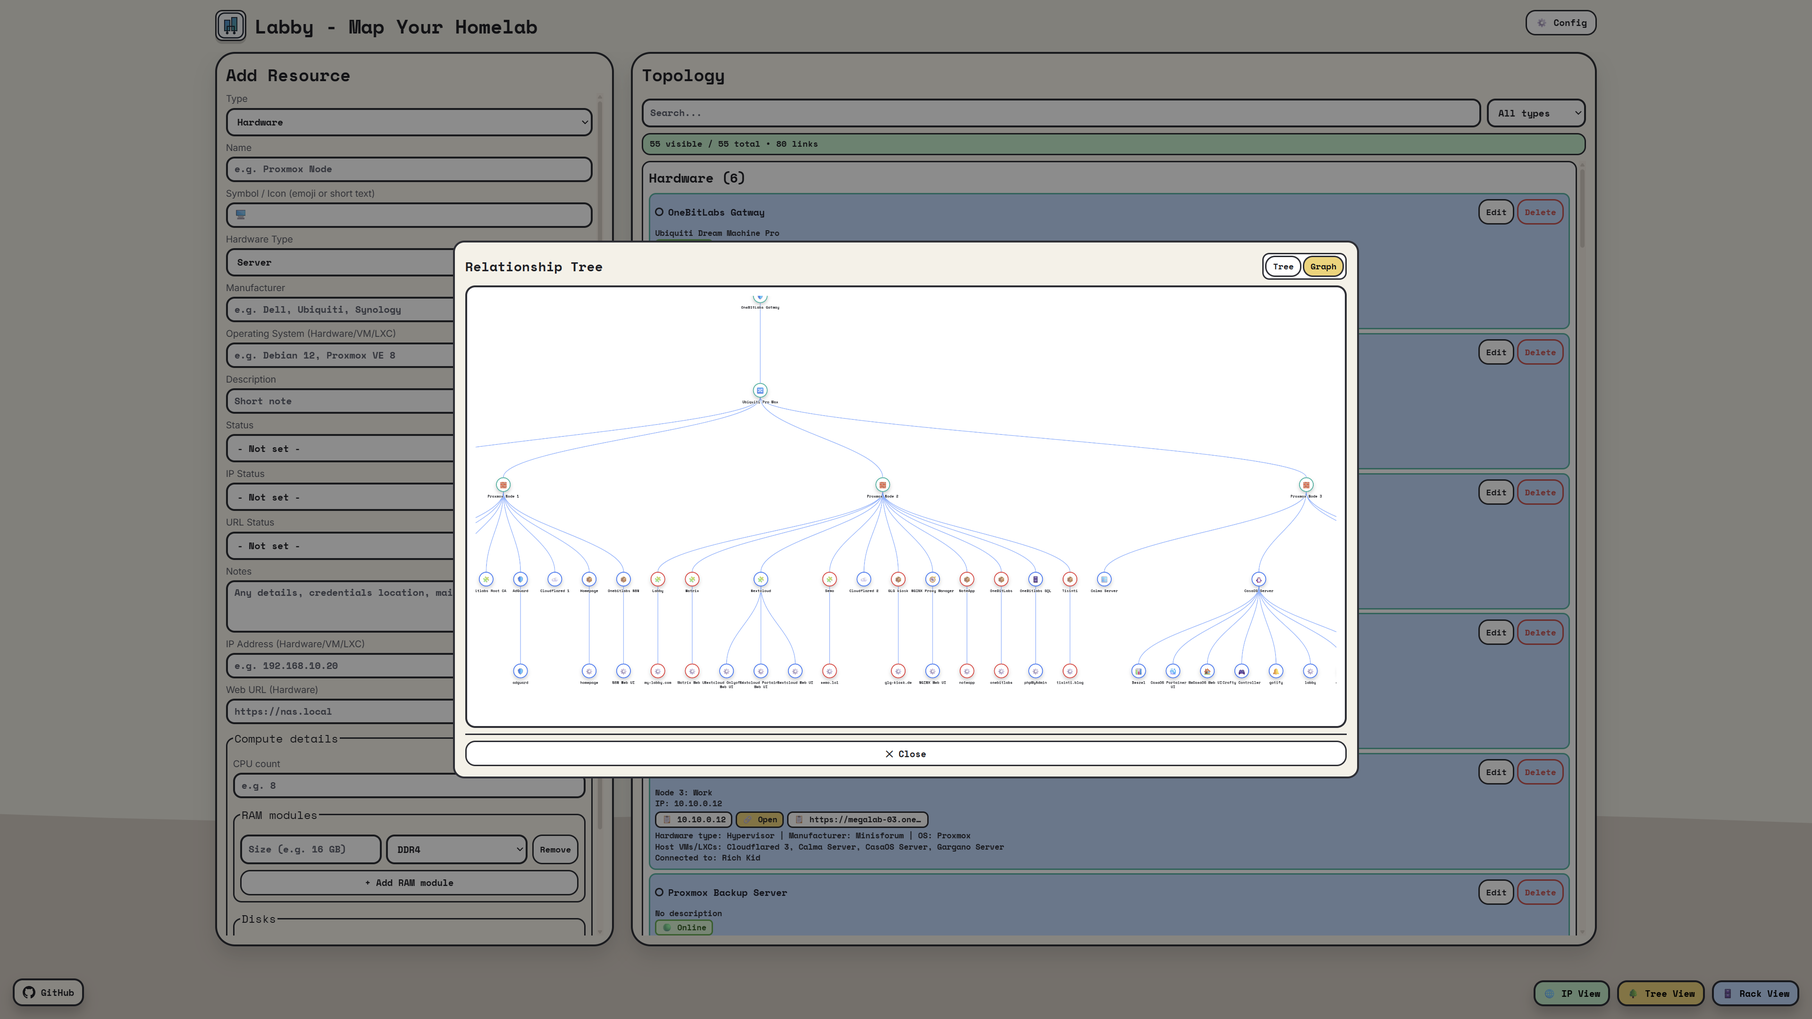
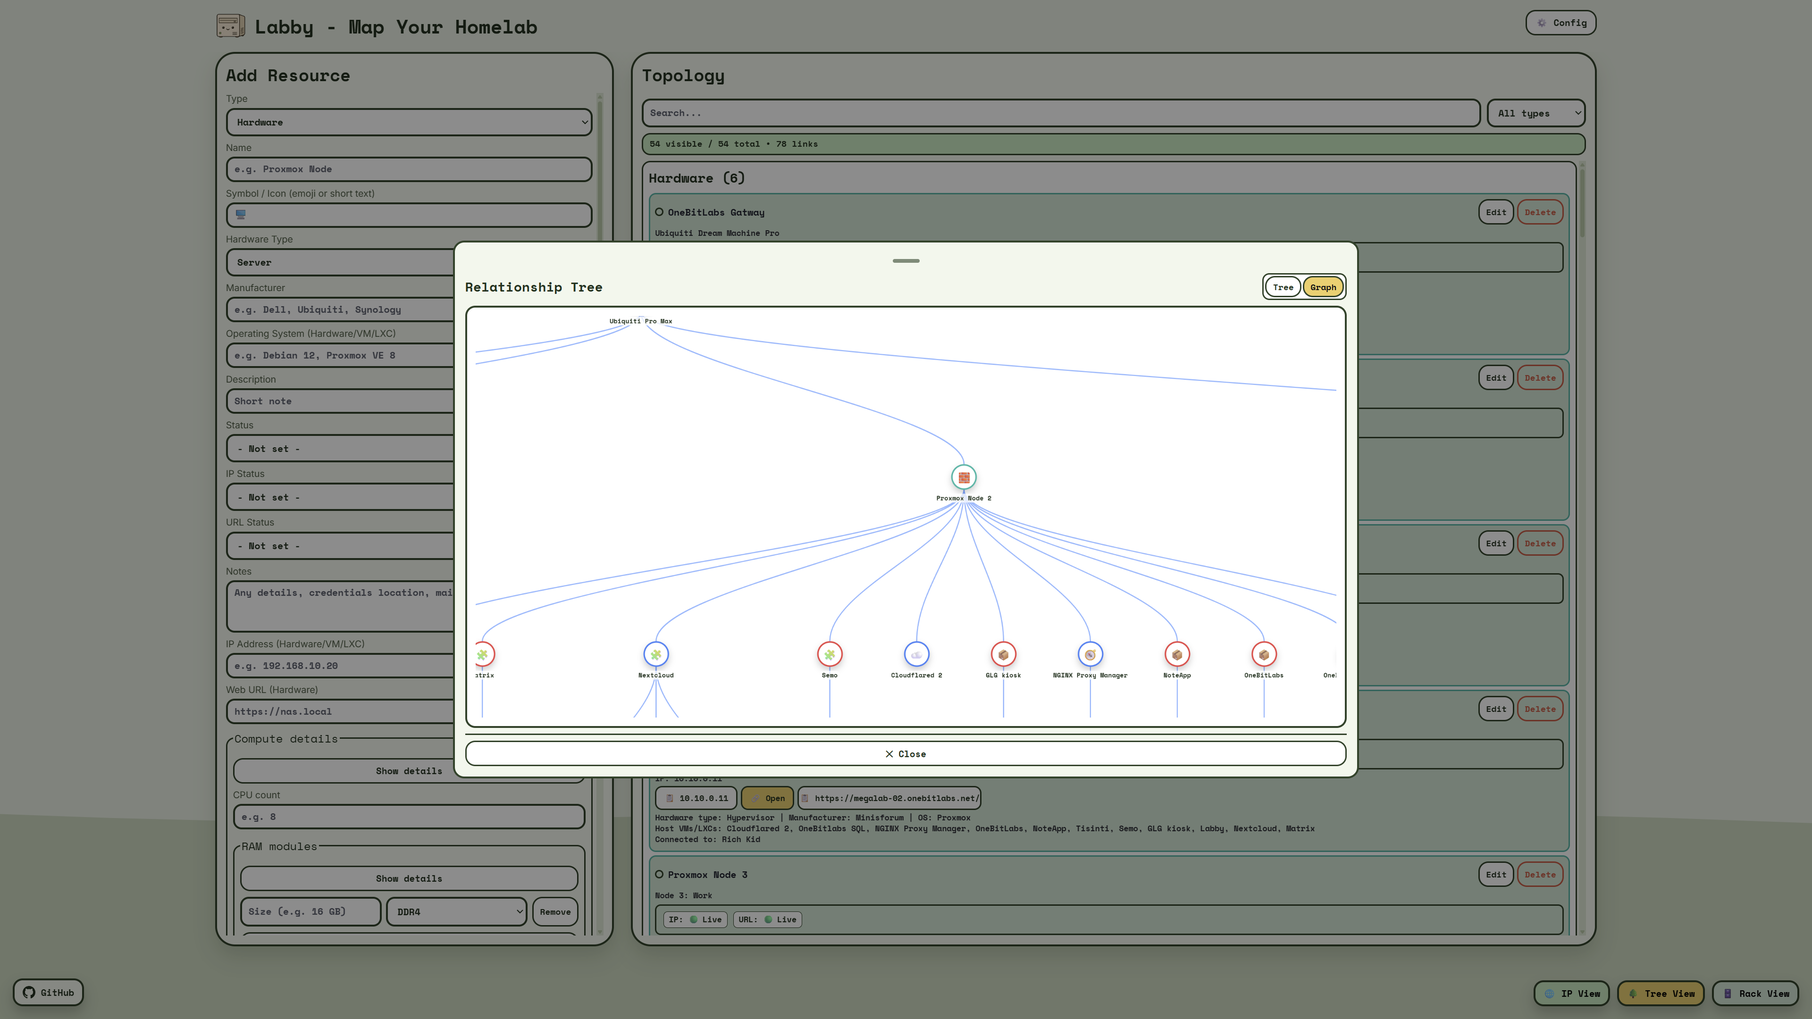
Replace website screenshots and link wiki entries

diff --git a/website/index.html b/website/index.html
@@ -309,8 +309,27 @@
     .gallery-caption {
       font: 700 .74rem/1 'Space Mono', monospace;
       color: var(--muted);
-      padding: .55rem .75rem;
+      padding: .55rem .75rem .3rem;
       border-top: 2px solid var(--line);
+    }
+    .gallery-open {
+      width: 100%;
+      display: block;
+      border: 0;
+      background: transparent;
+      color: inherit;
+      font: inherit;
+      text-align: left;
+      padding: 0;
+      cursor: pointer;
+    }
+    .gallery-wiki-link {
+      display: inline-flex;
+      margin: 0 .75rem .65rem;
+      color: var(--text);
+      font: 700 .68rem/1.2 'Space Mono', monospace;
+      text-decoration: underline;
+      text-underline-offset: 3px;
     }
     .gallery-hint {
       margin-top: .75rem;
@@ -720,7 +739,7 @@
   <!-- main screenshot -->
   <div class="screenshot-wrap">
     <div class="screenshot-card">
-      <img src="images/labby-main-view.png" alt="Labby dashboard" loading="eager" />
+      <img src="images/labby-topology.png" alt="Labby topology dashboard" loading="eager" />
     </div>
   </div>
 </div>
@@ -790,30 +809,104 @@
     <p class="gallery-hint">Click or tap a screenshot to open the viewer. Swipe or use the arrows to browse left and right.</p>
 
     <div class="gallery">
-      <button class="gallery-item" type="button" data-shot-src="images/labby-graph-view.png" data-shot-title="Graph View" aria-label="Open screenshot: Graph View">
-        <img src="images/labby-graph-view.png" alt="Graph View" loading="lazy" />
-        <p class="gallery-caption">🕸 Graph View</p>
-      </button>
-      <button class="gallery-item" type="button" data-shot-src="images/labby-rack-view.png" data-shot-title="IP View" aria-label="Open screenshot: IP View">
-        <img src="images/labby-rack-view.png" alt="IP View" loading="lazy" />
-        <p class="gallery-caption">🌐 IP View</p>
-      </button>
-      <button class="gallery-item" type="button" data-shot-src="images/labby-rack-editor.png" data-shot-title="Rack Editor" aria-label="Open screenshot: Rack Editor">
-        <img src="images/labby-rack-editor.png" alt="Rack Editor" loading="lazy" />
-        <p class="gallery-caption">🔧 Rack Editor</p>
-      </button>
-      <button class="gallery-item" type="button" data-shot-src="images/labby-theme-menu.png" data-shot-title="Theme Picker" aria-label="Open screenshot: Theme Picker">
-        <img src="images/labby-theme-menu.png" alt="Theme Picker" loading="lazy" />
-        <p class="gallery-caption">🎨 Theme Picker</p>
-      </button>
-      <button class="gallery-item" type="button" data-shot-src="images/labby-themes.png" data-shot-title="Custom Theme Editor" aria-label="Open screenshot: Custom Theme Editor">
-        <img src="images/labby-themes.png" alt="Custom Theme Editor" loading="lazy" />
-        <p class="gallery-caption">🎨 Custom Theme Editor</p>
-      </button>
-      <button class="gallery-item" type="button" data-shot-src="images/labby-config-menu.png" data-shot-title="Config Menu" aria-label="Open screenshot: Config Menu">
-        <img src="images/labby-config-menu.png" alt="Config Menu" loading="lazy" />
-        <p class="gallery-caption">⚙ Config &amp; Backup</p>
-      </button>
+      <article class="gallery-item" tabindex="0" data-shot-src="images/labby-topology.png" data-shot-title="Topology" data-wiki-href="wiki.html#topologycards" aria-label="Open screenshot: Topology">
+        <button class="gallery-open" type="button">
+          <img src="images/labby-topology.png" alt="Topology" loading="lazy" />
+          <p class="gallery-caption">🧩 Topology</p>
+        </button>
+        <a class="gallery-wiki-link" href="wiki.html#topologycards" aria-label="Open wiki entry for Topology">Read Topology Cards</a>
+      </article>
+      <article class="gallery-item" tabindex="0" data-shot-src="images/labby-mobile-startscreen.png" data-shot-title="Mobile Startscreen" data-wiki-href="wiki.html#mobileux" aria-label="Open screenshot: Mobile Startscreen">
+        <button class="gallery-open" type="button">
+          <img src="images/labby-mobile-startscreen.png" alt="Mobile Startscreen" loading="lazy" />
+          <p class="gallery-caption">📱 Mobile Startscreen</p>
+        </button>
+        <a class="gallery-wiki-link" href="wiki.html#mobileux" aria-label="Open wiki entry for Mobile Startscreen">Read Mobile UX</a>
+      </article>
+      <article class="gallery-item" tabindex="0" data-shot-src="images/labby-mobile-menu.png" data-shot-title="Mobile More Menu" data-wiki-href="wiki.html#mobileux" aria-label="Open screenshot: Mobile More Menu">
+        <button class="gallery-open" type="button">
+          <img src="images/labby-mobile-menu.png" alt="Mobile More Menu" loading="lazy" />
+          <p class="gallery-caption">📱 Mobile More Menu</p>
+        </button>
+        <a class="gallery-wiki-link" href="wiki.html#mobileux" aria-label="Open wiki entry for Mobile More Menu">Read Mobile UX</a>
+      </article>
+      <article class="gallery-item" tabindex="0" data-shot-src="images/labby-mobile-config.png" data-shot-title="Mobile Config" data-wiki-href="wiki.html#config" aria-label="Open screenshot: Mobile Config">
+        <button class="gallery-open" type="button">
+          <img src="images/labby-mobile-config.png" alt="Mobile Config" loading="lazy" />
+          <p class="gallery-caption">⚙ Mobile Config</p>
+        </button>
+        <a class="gallery-wiki-link" href="wiki.html#config" aria-label="Open wiki entry for Mobile Config">Read Config, Import & Export</a>
+      </article>
+      <article class="gallery-item" tabindex="0" data-shot-src="images/labby-rack-view.png" data-shot-title="Rack View" data-wiki-href="wiki.html#rackview" aria-label="Open screenshot: Rack View">
+        <button class="gallery-open" type="button">
+          <img src="images/labby-rack-view.png" alt="Rack View" loading="lazy" />
+          <p class="gallery-caption">🗄 Rack View</p>
+        </button>
+        <a class="gallery-wiki-link" href="wiki.html#rackview" aria-label="Open wiki entry for Rack View">Read Rack View</a>
+      </article>
+      <article class="gallery-item" tabindex="0" data-shot-src="images/labby-rack-editor.png" data-shot-title="Rack Editor" data-wiki-href="wiki.html#rackview" aria-label="Open screenshot: Rack Editor">
+        <button class="gallery-open" type="button">
+          <img src="images/labby-rack-editor.png" alt="Rack Editor" loading="lazy" />
+          <p class="gallery-caption">🔧 Rack Editor</p>
+        </button>
+        <a class="gallery-wiki-link" href="wiki.html#rackview" aria-label="Open wiki entry for Rack Editor">Read Rack View</a>
+      </article>
+      <article class="gallery-item" tabindex="0" data-shot-src="images/labby-mobile-rack-view.png" data-shot-title="Mobile Rack View" data-wiki-href="wiki.html#rackview" aria-label="Open screenshot: Mobile Rack View">
+        <button class="gallery-open" type="button">
+          <img src="images/labby-mobile-rack-view.png" alt="Mobile Rack View" loading="lazy" />
+          <p class="gallery-caption">📱 Mobile Rack View</p>
+        </button>
+        <a class="gallery-wiki-link" href="wiki.html#rackview" aria-label="Open wiki entry for Mobile Rack View">Read Rack View</a>
+      </article>
+      <article class="gallery-item" tabindex="0" data-shot-src="images/labby-ip-view.png" data-shot-title="IP View" data-wiki-href="wiki.html#ipview" aria-label="Open screenshot: IP View">
+        <button class="gallery-open" type="button">
+          <img src="images/labby-ip-view.png" alt="IP View" loading="lazy" />
+          <p class="gallery-caption">🌐 IP View</p>
+        </button>
+        <a class="gallery-wiki-link" href="wiki.html#ipview" aria-label="Open wiki entry for IP View">Read IP View</a>
+      </article>
+      <article class="gallery-item" tabindex="0" data-shot-src="images/labby-mobile-ip-view.png" data-shot-title="Mobile IP View" data-wiki-href="wiki.html#ipview" aria-label="Open screenshot: Mobile IP View">
+        <button class="gallery-open" type="button">
+          <img src="images/labby-mobile-ip-view.png" alt="Mobile IP View" loading="lazy" />
+          <p class="gallery-caption">🌐 Mobile IP View</p>
+        </button>
+        <a class="gallery-wiki-link" href="wiki.html#ipview" aria-label="Open wiki entry for Mobile IP View">Read IP View</a>
+      </article>
+      <article class="gallery-item" tabindex="0" data-shot-src="images/labby-graph-view.png" data-shot-title="Graph View" data-wiki-href="wiki.html#treegraph" aria-label="Open screenshot: Graph View">
+        <button class="gallery-open" type="button">
+          <img src="images/labby-graph-view.png" alt="Graph View" loading="lazy" />
+          <p class="gallery-caption">🕸 Graph View</p>
+        </button>
+        <a class="gallery-wiki-link" href="wiki.html#treegraph" aria-label="Open wiki entry for Graph View">Read Tree and Graph View</a>
+      </article>
+      <article class="gallery-item" tabindex="0" data-shot-src="images/labby-theme-selector.png" data-shot-title="Theme Selector" data-wiki-href="wiki.html#themes" aria-label="Open screenshot: Theme Selector">
+        <button class="gallery-open" type="button">
+          <img src="images/labby-theme-selector.png" alt="Theme Selector" loading="lazy" />
+          <p class="gallery-caption">🎨 Theme Selector</p>
+        </button>
+        <a class="gallery-wiki-link" href="wiki.html#themes" aria-label="Open wiki entry for Theme Selector">Read Themes</a>
+      </article>
+      <article class="gallery-item" tabindex="0" data-shot-src="images/labby-theme-customization.png" data-shot-title="Theme Customization" data-wiki-href="wiki.html#themes" aria-label="Open screenshot: Theme Customization">
+        <button class="gallery-open" type="button">
+          <img src="images/labby-theme-customization.png" alt="Theme Customization" loading="lazy" />
+          <p class="gallery-caption">🎨 Theme Customization</p>
+        </button>
+        <a class="gallery-wiki-link" href="wiki.html#themes" aria-label="Open wiki entry for Theme Customization">Read Themes</a>
+      </article>
+      <article class="gallery-item" tabindex="0" data-shot-src="images/labby-config.png" data-shot-title="Config Menu" data-wiki-href="wiki.html#config" aria-label="Open screenshot: Config Menu">
+        <button class="gallery-open" type="button">
+          <img src="images/labby-config.png" alt="Config Menu" loading="lazy" />
+          <p class="gallery-caption">⚙ Config Menu</p>
+        </button>
+        <a class="gallery-wiki-link" href="wiki.html#config" aria-label="Open wiki entry for Config Menu">Read Config, Import & Export</a>
+      </article>
+      <article class="gallery-item" tabindex="0" data-shot-src="images/labby-api-key.png" data-shot-title="API Keys" data-wiki-href="wiki.html#agentapi" aria-label="Open screenshot: API Keys">
+        <button class="gallery-open" type="button">
+          <img src="images/labby-api-key.png" alt="API Keys" loading="lazy" />
+          <p class="gallery-caption">🤖 API Keys</p>
+        </button>
+        <a class="gallery-wiki-link" href="wiki.html#agentapi" aria-label="Open wiki entry for API Keys">Read Agent API Access</a>
+      </article>
     </div>
   </div>
 </section>
@@ -898,6 +991,7 @@ docker compose up --build -d</pre>
 
     <div class="shot-viewer-footer">
       <div class="shot-viewer-thumbs" id="shot-viewer-thumbs"></div>
+      <a class="btn btn-secondary shot-viewer-wiki-link" id="shot-viewer-wiki-link" href="wiki.html">Open wiki entry</a>
     </div>
   </div>
 </div>
@@ -984,6 +1078,7 @@ docker compose up --build -d</pre>
   const viewerPrev = document.getElementById('shot-viewer-prev');
   const viewerNext = document.getElementById('shot-viewer-next');
   const viewerStage = document.getElementById('shot-viewer-stage');
+  const viewerWikiLink = document.getElementById('shot-viewer-wiki-link');
   let activeShotIndex = 0;
   let touchStartX = 0;
   let touchStartY = 0;
@@ -992,7 +1087,8 @@ docker compose up --build -d</pre>
     index,
     src: button.dataset.shotSrc,
     title: button.dataset.shotTitle || `Screenshot ${index + 1}`,
-    caption: button.querySelector('.gallery-caption')?.textContent?.trim() || button.dataset.shotTitle || `Screenshot ${index + 1}`
+    caption: button.querySelector('.gallery-caption')?.textContent?.trim() || button.dataset.shotTitle || `Screenshot ${index + 1}`,
+    wikiHref: button.dataset.wikiHref || 'wiki.html'
   }));
 
   function buildViewerThumbs() {
@@ -1016,6 +1112,7 @@ docker compose up --build -d</pre>
     viewerImage.alt = shot.title;
     viewerTitle.textContent = shot.caption;
     viewerMeta.textContent = `${activeShotIndex + 1} / ${shots.length}`;
+    if (viewerWikiLink) viewerWikiLink.href = shot.wikiHref;
     viewerStage.scrollTo({ left: 0, top: 0, behavior: 'auto' });
     Array.from(viewerThumbs.children).forEach((thumb, thumbIndex) => {
       thumb.classList.toggle('active', thumbIndex === activeShotIndex);
@@ -1038,6 +1135,10 @@ docker compose up --build -d</pre>
     viewer.setAttribute('aria-hidden', 'true');
     document.body.style.overflow = '';
   }
+
+  document.querySelectorAll('.gallery-wiki-link').forEach((link) => {
+    link.addEventListener('click', (event) => event.stopPropagation());
+  });
 
   galleryButtons.forEach((button, index) => {
     button.addEventListener('click', () => openViewer(index));

diff --git a/website/wiki.html b/website/wiki.html
@@ -288,6 +288,34 @@
     .wiki-content pre code { background: none; padding: 0; font-size: inherit; }
     .wiki-content a { color: var(--text); font-weight: 700; }
 
+    .wiki-shot-grid {
+      display: grid;
+      grid-template-columns: repeat(2, minmax(0, 1fr));
+      gap: .85rem;
+      margin: 1rem 0 1.35rem;
+    }
+    .wiki-shot {
+      border: 2px solid var(--line);
+      border-radius: 14px;
+      overflow: hidden;
+      background: color-mix(in srgb, var(--phone) 88%, white);
+      box-shadow: 0 8px 18px rgba(0,0,0,.08);
+    }
+    .wiki-shot img {
+      width: 100%;
+      display: block;
+      height: auto;
+    }
+    .wiki-shot figcaption {
+      border-top: 2px solid var(--line);
+      padding: .55rem .7rem;
+      color: var(--muted);
+      font: 700 .7rem/1.35 'Space Mono', monospace;
+    }
+    @media (max-width: 640px) {
+      .wiki-shot-grid { grid-template-columns: 1fr; }
+    }
+
     @media (max-width: 640px) {
       .wiki-copy-btn { font-size: 0; padding: .4rem .52rem; }
       .wiki-copy-btn svg { width: 17px; height: 17px; }
@@ -601,6 +629,10 @@ btn.addEventListener('click', () => {
   const PAGES = {
     home:{title:'🧪 Labby Wiki',content:`
       <p>Labby is a lightweight homelab inventory, rack and topology tool with persistent, browser-independent storage. Track hardware, VMs, LXCs, apps, networks, rack layouts, themes and relationships in one clean dashboard.</p>
+      <div class="wiki-shot-grid">
+        <figure class="wiki-shot"><img src="images/labby-topology.png" alt="Labby topology overview" loading="lazy" /><figcaption>Topology overview</figcaption></figure>
+        <figure class="wiki-shot"><img src="images/labby-rack-view.png" alt="Labby rack view" loading="lazy" /><figcaption>Rack view</figcaption></figure>
+      </div>
       <h2>Main Highlights</h2>
       <ul>
         <li>🖥 Resource tracking for Hardware, VMs, LXCs, Apps and Networks</li>
@@ -796,6 +828,10 @@ docker-compose.yml</pre>
       </ul>
       <h2>Resource Metadata</h2>
       <p>Labby can store OS, manufacturer, CPU, RAM, disks, notes, links, URLs, live status, hosted-on relationships and connected devices.</p>
+      <div class="wiki-shot-grid">
+        <figure class="wiki-shot"><img src="images/labby-topology.png" alt="Topology" loading="lazy" /><figcaption>Topology</figcaption></figure>
+        <figure class="wiki-shot"><img src="images/labby-theme-selector.png" alt="Themes" loading="lazy" /><figcaption>Themes</figcaption></figure>
+      </div>
       <h2>Live Status</h2>
       <p>Manual statuses include Online, Offline and Maintenance. Optional live checks can ping an IP or check a URL when those fields are configured on a resource.</p>
       <h2>Responsive UX</h2>
@@ -803,6 +839,11 @@ docker-compose.yml</pre>
     `},
     mobileux:{title:'📱 Mobile UX',content:`
       <p>Mobile is designed as its own app-like flow, not a shrunken desktop layout.</p>
+      <div class="wiki-shot-grid">
+        <figure class="wiki-shot"><img src="images/labby-mobile-startscreen.png" alt="Mobile start screen" loading="lazy" /><figcaption>Mobile start screen</figcaption></figure>
+        <figure class="wiki-shot"><img src="images/labby-mobile-menu.png" alt="Mobile More menu" loading="lazy" /><figcaption>Mobile More menu</figcaption></figure>
+        <figure class="wiki-shot"><img src="images/labby-mobile-config.png" alt="Mobile Config page" loading="lazy" /><figcaption>Mobile Config page</figcaption></figure>
+      </div>
       <h2>Bottom Navigation</h2>
       <ul>
         <li><strong>Boards</strong> - opens the Topology card view</li>
@@ -832,6 +873,9 @@ docker-compose.yml</pre>
     `},
     topologycards:{title:'🧩 Topology Cards',content:`
       <p>Topology cards are the main way to browse, edit and understand your homelab resources.</p>
+      <div class="wiki-shot-grid">
+        <figure class="wiki-shot"><img src="images/labby-topology.png" alt="Topology cards" loading="lazy" /><figcaption>Topology cards</figcaption></figure>
+      </div>
       <h2>Desktop Usage</h2>
       <ul>
         <li>Use Search to filter by name, IP, hostname, port or notes</li>
@@ -860,6 +904,9 @@ Connected devices are listed on hardware cards</pre>
 
     agentapi:{title:'🤖 Agent API Access',content:`
       <p>Agent API Access lets trusted automation tools connect to Labby with scoped API keys. This is useful for inventory import, monitoring agents and infrastructure automation.</p>
+      <div class="wiki-shot-grid">
+        <figure class="wiki-shot"><img src="images/labby-api-key.png" alt="API Keys dialog" loading="lazy" /><figcaption>API Keys management</figcaption></figure>
+      </div>
       <h2>What Agents Can Do</h2>
       <ul>
         <li>Read the current inventory, locations and racks</li>
@@ -956,6 +1003,11 @@ Summarize all planned changes before writing them.</pre>
     `},
     rackview:{title:'🗄 Rack View',content:`
       <p>Rack View documents the physical side of your homelab: locations, racks, rack units and linked resources.</p>
+      <div class="wiki-shot-grid">
+        <figure class="wiki-shot"><img src="images/labby-rack-view.png" alt="Rack View" loading="lazy" /><figcaption>Rack View</figcaption></figure>
+        <figure class="wiki-shot"><img src="images/labby-rack-editor.png" alt="Rack Editor" loading="lazy" /><figcaption>Rack Editor</figcaption></figure>
+        <figure class="wiki-shot"><img src="images/labby-mobile-rack-view.png" alt="Mobile Rack View" loading="lazy" /><figcaption>Mobile Rack View</figcaption></figure>
+      </div>
       <h2>Desktop Rack View</h2>
       <ul>
         <li>Create and edit locations</li>
@@ -991,6 +1043,9 @@ Summarize all planned changes before writing them.</pre>
     `},
     treegraph:{title:'🌳 Tree and Graph View',content:`
       <p>Labby provides relationship views for understanding how the homelab is connected.</p>
+      <div class="wiki-shot-grid">
+        <figure class="wiki-shot"><img src="images/labby-graph-view.png" alt="Graph View" loading="lazy" /><figcaption>Desktop Graph View</figcaption></figure>
+      </div>
       <h2>Tree View</h2>
       <p>Tree View groups infrastructure by type and relationship. It shows hardware groups, hosts, VMs, LXCs, apps running on guests and unassigned resources.</p>
       <h2>Mobile Tree View</h2>
@@ -1010,6 +1065,10 @@ Summarize all planned changes before writing them.</pre>
     `},
     ipview:{title:'🌐 IP View',content:`
       <p>IP View shows all used addresses in one place.</p>
+      <div class="wiki-shot-grid">
+        <figure class="wiki-shot"><img src="images/labby-ip-view.png" alt="IP View" loading="lazy" /><figcaption>Desktop IP View</figcaption></figure>
+        <figure class="wiki-shot"><img src="images/labby-mobile-ip-view.png" alt="Mobile IP View" loading="lazy" /><figcaption>Mobile IP View</figcaption></figure>
+      </div>
       <h2>Features</h2>
       <ul>
         <li>Dedicated IP overview sorted by subnet</li>
@@ -1026,6 +1085,10 @@ Summarize all planned changes before writing them.</pre>
     `},
     themes:{title:'🎨 Themes',content:`
       <p>Labby includes a complete theme system for desktop and mobile.</p>
+      <div class="wiki-shot-grid">
+        <figure class="wiki-shot"><img src="images/labby-theme-selector.png" alt="Theme selector" loading="lazy" /><figcaption>Theme selector</figcaption></figure>
+        <figure class="wiki-shot"><img src="images/labby-theme-customization.png" alt="Theme customization" loading="lazy" /><figcaption>Theme customization</figcaption></figure>
+      </div>
       <h2>Built-in Themes</h2>
       <ul>
         <li>Light, Ocean, Forest, Rose, Solar</li>
@@ -1046,6 +1109,10 @@ Summarize all planned changes before writing them.</pre>
     `},
     config:{title:'💾 Config, Import and Export',content:`
       <p>Labby supports app-level JSON backup and restore.</p>
+      <div class="wiki-shot-grid">
+        <figure class="wiki-shot"><img src="images/labby-config.png" alt="Config menu" loading="lazy" /><figcaption>Config menu</figcaption></figure>
+        <figure class="wiki-shot"><img src="images/labby-mobile-config.png" alt="Mobile config" loading="lazy" /><figcaption>Mobile Config</figcaption></figure>
+      </div>
       <h2>Export Config</h2>
       <pre>Config → Export Config</pre>
       <p>The export includes:</p>
@@ -1119,7 +1186,7 @@ Summarize all planned changes before writing them.</pre>
     });
   }
 
-  function showPage(id) {
+  function showPage(id, updateHash = true) {
     const p = PAGES[id]; if (!p) return;
     content.innerHTML = '<h1>' + p.title + '</h1>' + p.content;
     wrapCodeBlocks();
@@ -1127,12 +1194,16 @@ Summarize all planned changes before writing them.</pre>
     document.querySelectorAll('.wiki-nav-link').forEach(l =>
       l.classList.toggle('active', l.dataset.page === id)
     );
+    if (updateHash && location.hash.slice(1) !== id) {
+      history.replaceState(null, '', '#' + id);
+    }
   }
 
   // desktop sidebar
   links.forEach(l => l.addEventListener('click', e => { e.preventDefault(); showPage(l.dataset.page); }));
 
-  showPage('home');
+  showPage(location.hash ? location.hash.slice(1) : 'home', false);
+  window.addEventListener('hashchange', () => showPage(location.hash.slice(1) || 'home', false));
 
   // wire up FAB + drawer AFTER full DOM is ready
   document.addEventListener('DOMContentLoaded', function() {
